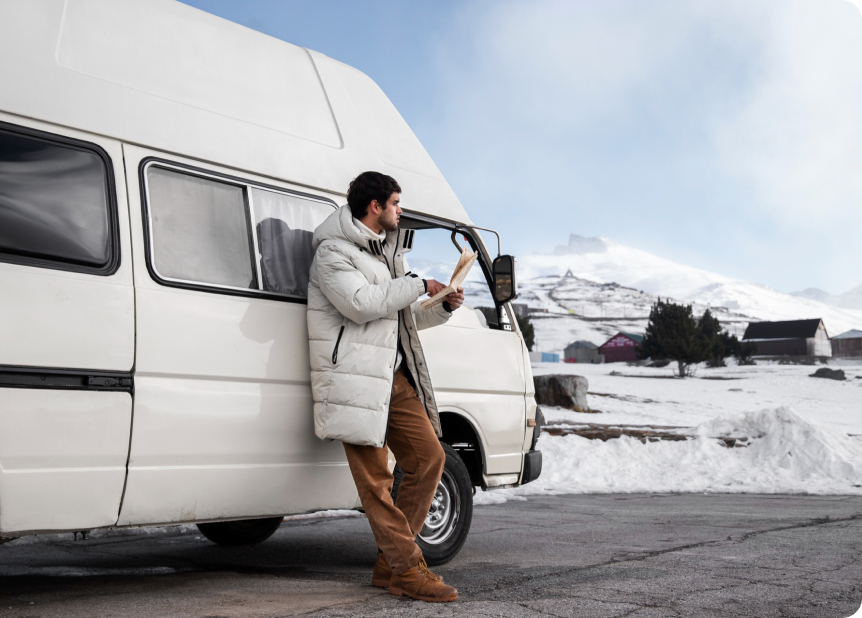
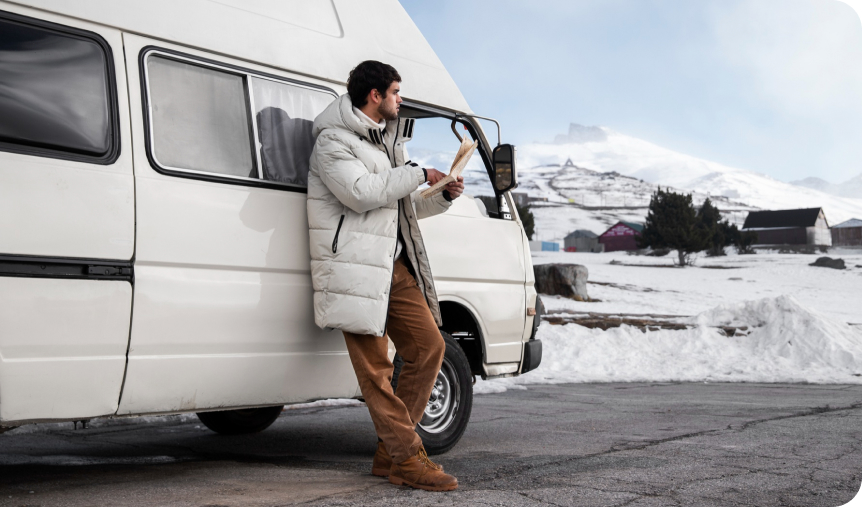
update welcome

diff --git a/src/components/Welcome/Welcome.jsx b/src/components/Welcome/Welcome.jsx
@@ -29,7 +29,7 @@ export const Welcome = () => {
                 src={require("../../images/welcome-page-image-1x.jpg")}
                 alt="man-holding-map"
                 width="862px"
-                height="618px"
+                height="507px"
               />
             </picture>
           </div>

diff --git a/src/components/Header/Header.styled.js b/src/components/Header/Header.styled.js
@@ -1,7 +1,7 @@
 import styled from "styled-components";
 
 export const HeaderContainer = styled.header`
-  padding-top: 64px;
+  padding-top: 40px;
 
   padding-left: 64px;
   padding-right: 64px;

diff --git a/src/GlobalStyles.js b/src/GlobalStyles.js
@@ -19,7 +19,6 @@ export const GlobalStyle = createGlobalStyle`
         display: block;
         max-width: 100%;
         height: auto;
-        aspect-ratio: 4 / 3;
     }
 
     .container {

diff --git a/src/components/Welcome/Welcome.styled.js b/src/components/Welcome/Welcome.styled.js
@@ -91,7 +91,7 @@ export const MotivationText = styled.p`
   letter-spacing: -1.8px;
   text-transform: uppercase;
 
-  max-width: 441px;
+  max-width: 467px;
 
   margin-bottom: 20px;
 `;
